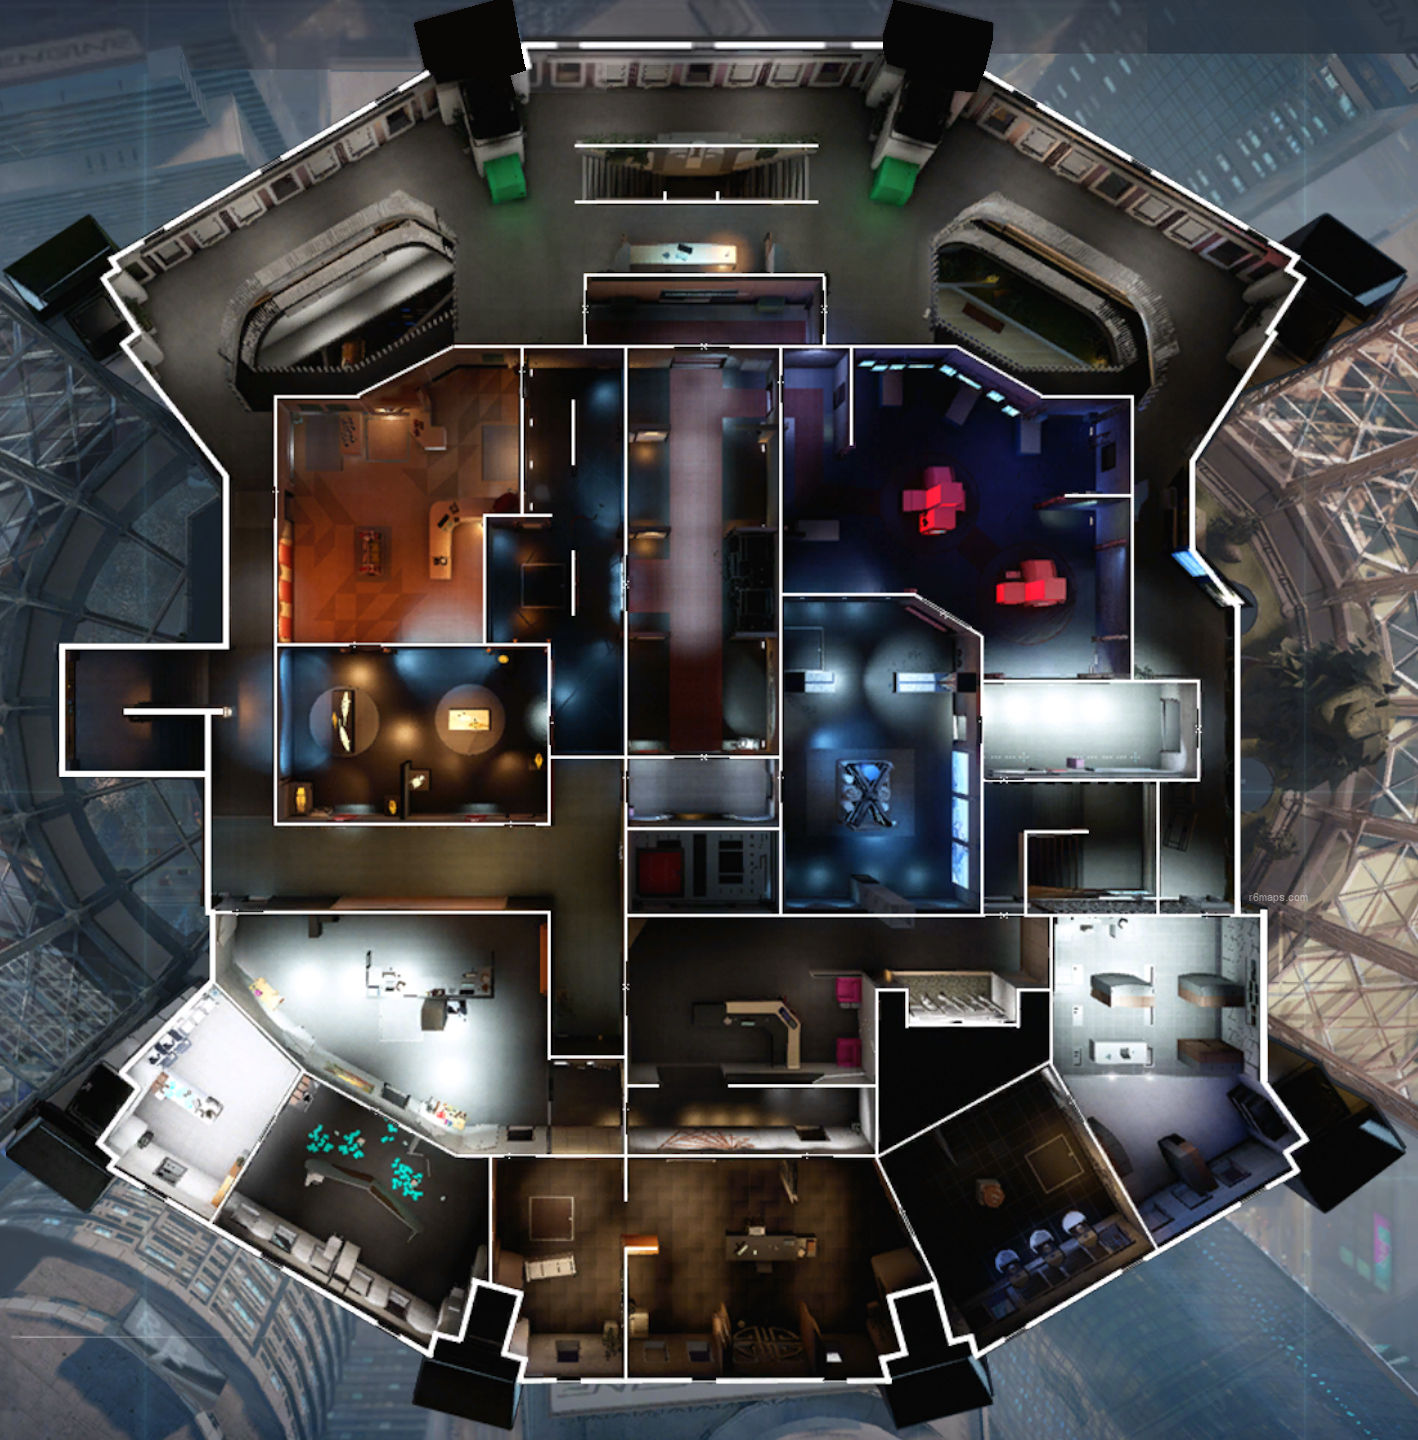
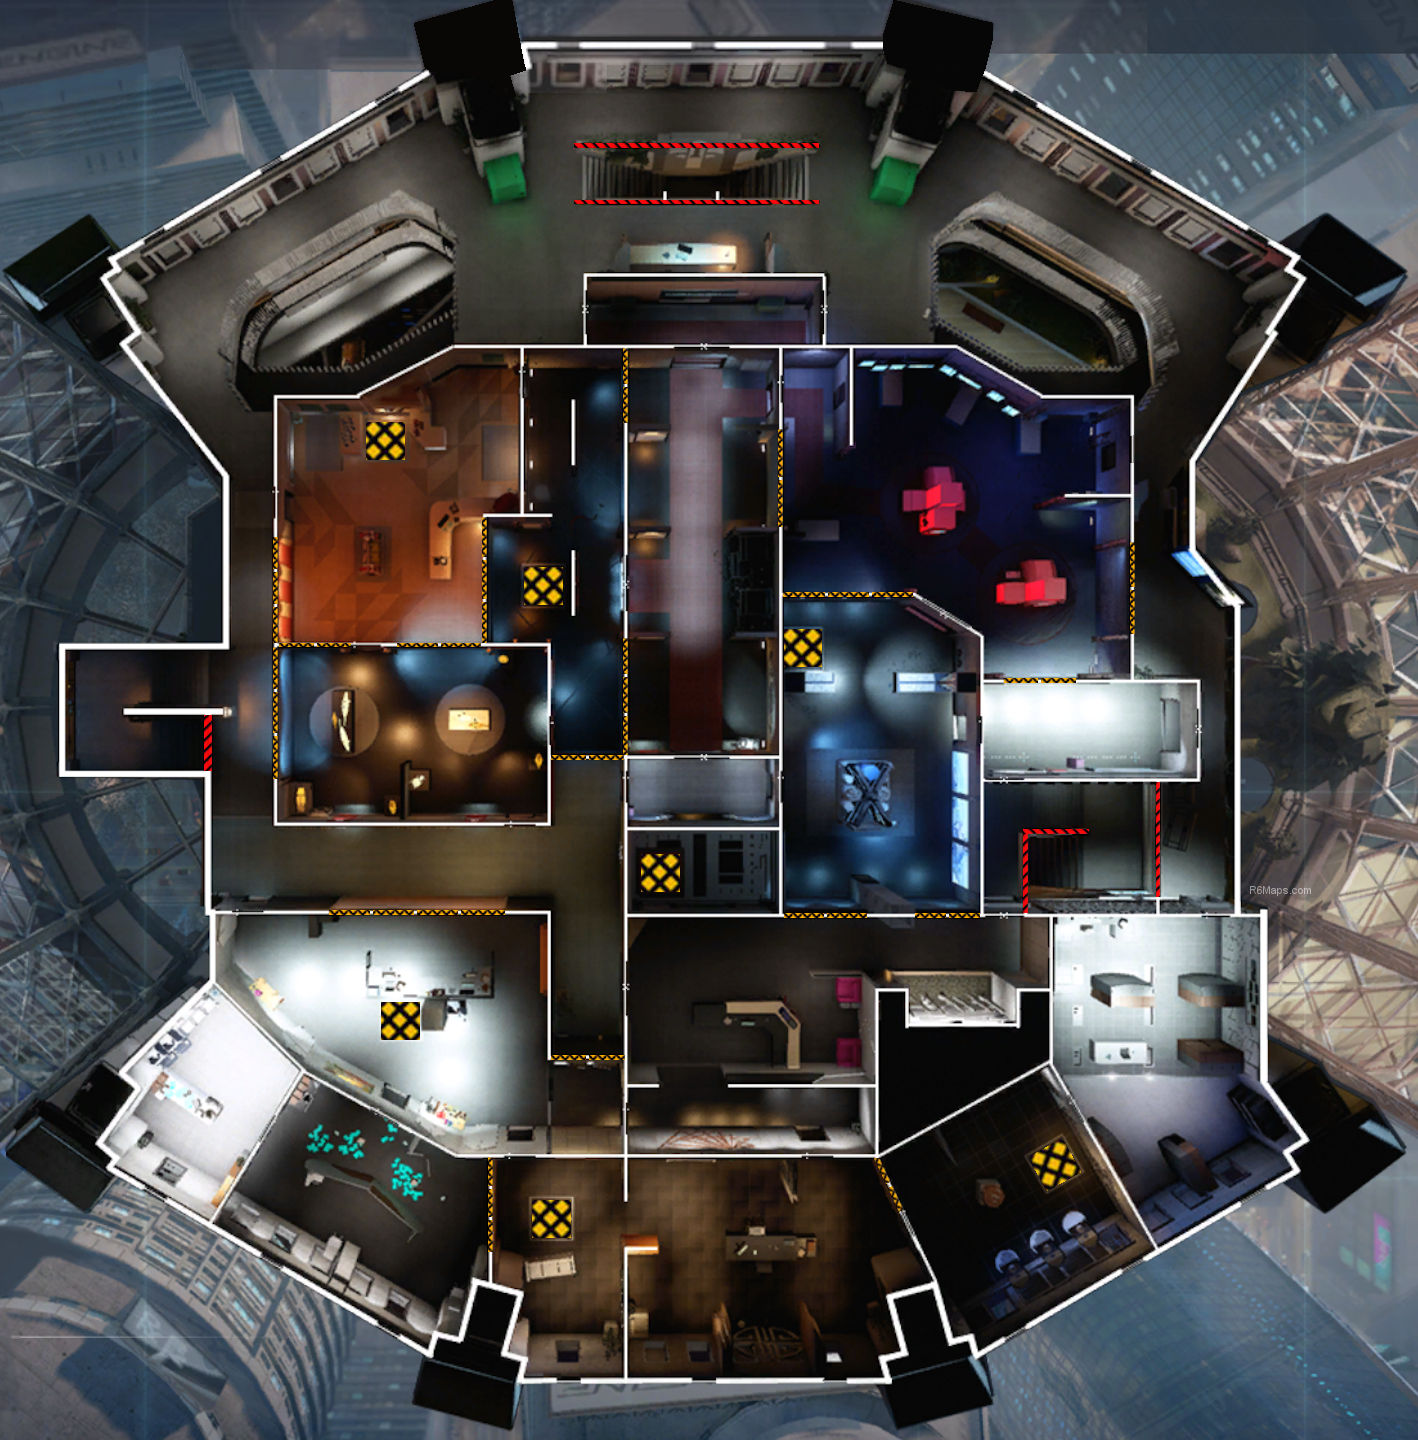
More tower details, work-in-progress

diff --git a/dev/js/main/main.map-data.js b/dev/js/main/main.map-data.js
@@ -2706,10 +2706,10 @@ var R6MMainData = (function(R6MLangTerms, undefined){
           { floor: 1, top: -72, left: -352, set: 4, letter: objectiveTerms.bombShortB }
         ],
         secureObjectives: [
-            { floor: 2, top: -152, left: 208 },
-            { floor: 2, top: 502, left: 64 },
-            { floor: 1, top: -143, left: 223 },
-            { floor: 1, top: -143, left: -171 }
+          { floor: 2, top: -152, left: 208 },
+          { floor: 2, top: 502, left: 64 },
+          { floor: 1, top: -143, left: 223 },
+          { floor: 1, top: -143, left: -210 }
         ],
         zoomPoints: {
           topLeft: { top: -665, left: -694 },
@@ -2719,55 +2719,70 @@ var R6MMainData = (function(R6MLangTerms, undefined){
           top: 380, left: 932
         },
         ladders: [
+          { floor: 3, top: 245, left: -139, otherFloor: 'up' },
+          { floor: 4, top: 245, left: -139, otherFloor: 'down' },
+          { floor: 3, top: 65, left: 116, otherFloor: 'up' },
+          { floor: 4, top: 65, left: 116, otherFloor: 'down' }
         ],
         cameras: [
-          /*
           {
-            floor: 2, top: 202, left: 461, id: 1, location: towerTerms.galleryMain,
-            los: []
+            floor: 2, top: -349, left: 43, id: 1, location: towerTerms.galleryMain,
+            los: [
+              [{top: -363, left: -85}, {top: -363, left: 60}, {top: -190, left: 60}, {top: -190, left: 16}, {top: 110, left: -21}]
+            ]
           },
           {
-            floor: 2, top: 388, left: 668, id: 2, location: towerTerms.exhibitHallway,
-            los: []
+            floor: 2, top: 47, left: 463, id: 2, location: towerTerms.exhibitHallway,
+            los: [
+              [{top: -29, left: 479}, {top: 62, left: 479}, {top: 62, left: 272}, {top: 27, left: 272}, {top: -11, left: 71}],
+              [{top: 5, left: 272}, {top: -33, left: 127}]
+            ]
           },
           {
-            floor: 2, top: 482, left: 417, id: 3, location: towerTerms.companyReception,
-            los: []
+            floor: 2, top: 220, left: -67, id: 3, location: towerTerms.companyReception,
+            los: [
+              [{top: 437, left: -50}, {top: 366, left: -54}, {top: 366, left: -84}, {top: 206, left: -84}, {top: 206, left: 330}],
+              [{top: 374, left: 11}, {top: 438, left: 43}]
+            ]
           },
           {
-            floor: 1, top: 530, left: 383, id: 4, location: towerTerms.traditionalHall,
-            los: []
+            floor: 1, top: 335, left: -133, id: 4, location: towerTerms.traditionalHall,
+            los: [
+              [{top: 2, left: -133}, {top: 121, left: -134}, {top: 121, left: -150}, {top: 346, left: -150}],
+              [{top: 302, left: -93}, {top: 261, left: 113}, {top: 202, left: 113}, {top: 178, left: 134}, {top: 121, left: 218}],
+              [{top: 217, left: 55}, {top: 121, left: 147}]
+            ]
           },
           {
-            floor: 1, top: 442, left: 219, id: 5, location: towerTerms.westBalcony,
-            los: []
+            floor: 1, top: 154, left: -459, id: 5, location: towerTerms.westBalcony,
+            los: [
+              [{top: -341, left: -476}, {top: 170, left: -476}, {top: 170, left: -99}]
+            ]
           },
           {
-            floor: 2, top: 61, left: 439, id: 6, location: towerTerms.centerAtrium,
-            los: []
+            floor: 2, top: -627, left: -13, id: 6, location: towerTerms.centerAtrium,
+            los: [
+              [{top: -365, left: -576}, {top: -669, left: -13}, {top: -368, left: 543}]
+            ]
           },
-          {
-            floor: 1, top: 657, left: 434, id: 7, location: towerTerms.fountain,
-            los: []
-          }
-          */
           {
             floor: 1, top: 592, left: -21, id: 7, location: towerTerms.fountain,
             los: [
-              [{top: 375, left: -274}, {top: 441, left: -183}, {top: 530, left: -201}, {top: 537, left: -183}, {top: 592, left: -197}, {top: 597, left: -176}, {top: 607, left: -179}, {top: 607, left: 139}]
+              [ {top: 375, left: -274}, {top: 441, left: -182}, {top: 530, left: -201}, {top: 536, left: -183}, {top: 591, left: -197}, {top: 597, left: -176}, {top: 607, left: -179},
+                {top: 607, left: 141}, {top: 596, left: 137}, {top: 590, left: 160}, {top: 534, left: 145}, {top: 528, left: 168}, {top: 440, left: 146}, {top: 374, left: 230} ]
             ]
           }
         ],
         ceilingHatches: [
-          /*{ floor: 2, top: 362, left: 460 },
-          { floor: 2, top: 255, left: 419 },
-          { floor: 1, top: 220, left: 289 },
-          { floor: 1, top: 311, left: 359 },
-          { floor: 1, top: 514, left: 288 },
-          { floor: 1, top: 600, left: 370 },
-          { floor: 1, top: 580, left: 591 },
-          { floor: 1, top: 438, left: 417 },
-          { floor: 1, top: 340, left: 485 }*/
+          { floor: 2, top: -233, left: -67 },
+          { floor: 2, top: -27, left: 44 },
+          { floor: 1, top: -274, left: -328 },
+          { floor: 1, top: 307, left: -315 },
+          { floor: 1, top: 158, left: -54 },
+          { floor: 1, top: -66, left: 87 },
+          { floor: 1, top: 450, left: 342 },
+          { floor: 1, top: 505, left: -162 },
+          { floor: 1, top: -128, left: -170 }
         ],
         skylights: [],
         droneTunnels: [

diff --git a/dev/js/lang-terms/lang-terms.js b/dev/js/lang-terms/lang-terms.js
@@ -96,7 +96,7 @@ var R6MLangTerms = (function(undefined) {
         breakableWalls: 'Breakable walls',
         breakableFloorTraps: 'Breakable floor traps',
         ceilingHatches: 'Ceiling hatches',
-        lineOfSightWalls: 'Line of sight walls',
+        lineOfSightWalls: 'Line of sight or half walls',
         lineOfSightFloors: 'Line of sight floors',
         droneTunnels: 'Drone tunnels',
         objectives: 'Objectives',
